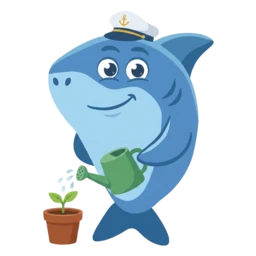
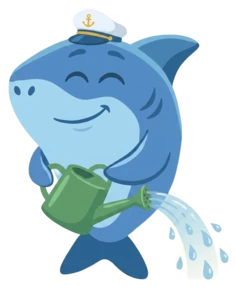
feat(knowledge-tree): shark waters the real tree (drop baked-in sprout)
Per Yoav: the sprout the shark waters should BE the GrowingTree, not a plant
drawn into the mascot. Regenerated the watering mascot WITHOUT a sprout/pot —
just Captain Shark tilting the can with water pouring to the right — and
reworked KnowledgeTreeScreen so he stands beside the real GrowingTree and
waters it (slight overlap so the stream reaches the tree). Bubble moved below
the scene.

diff --git a/src/features/knowledge-tree/KnowledgeTreeScreen.tsx b/src/features/knowledge-tree/KnowledgeTreeScreen.tsx
@@ -51,25 +51,27 @@ export function KnowledgeTreeScreen(): React.ReactElement {
           contentContainerStyle={styles.scroll}
           showsVerticalScrollIndicator={false}
         >
-          {/* The tree — hero */}
-          <Animated.View entering={FadeIn.duration(400)} style={styles.treeWrap}>
-            <GrowingTree stageIndex={view.displayStage} size={260} />
+          {/* Scene — Captain Shark stands beside the REAL GrowingTree and waters
+              it: his can pours to the right, where the tree sits (slight overlap
+              so the water reaches it). The tree is the hero; the shark is smaller. */}
+          <Animated.View entering={FadeIn.duration(400)} style={styles.scene}>
+            <ExpoImage source={FINN_WATERING} style={styles.sharkBig} contentFit="contain" accessible={false} />
+            <GrowingTree stageIndex={view.displayStage} size={190} />
           </Animated.View>
 
-          {/* Forest stats */}
-          <Animated.View entering={FadeInDown.duration(400).delay(120)} style={styles.statsRow}>
-            <Stat value={String(wateredDays)} label="ימי השקיה" />
-            <View style={styles.statDivider} />
-            <Stat value={String(view.treesCompleted)} label="עצים גידלת" />
-          </Animated.View>
-
-          {/* Captain Shark watering + speech bubble */}
-          <Animated.View entering={FadeInDown.duration(400).delay(220)} style={styles.sharkRow}>
-            <ExpoImage source={FINN_WATERING} style={styles.shark} contentFit="contain" accessible={false} />
+          {/* Speech bubble */}
+          <Animated.View entering={FadeInDown.duration(400).delay(140)} style={styles.bubbleWrap}>
             <View style={styles.bubble}>
               <View style={styles.bubbleTail} />
               <Text style={styles.bubbleText}>{bubbleText}</Text>
             </View>
+          </Animated.View>
+
+          {/* Forest stats */}
+          <Animated.View entering={FadeInDown.duration(400).delay(220)} style={styles.statsRow}>
+            <Stat value={String(wateredDays)} label="ימי השקיה" />
+            <View style={styles.statDivider} />
+            <Stat value={String(view.treesCompleted)} label="עצים גידלת" />
           </Animated.View>
 
           {/* CTA — only when the tree hasn't been watered today */}
@@ -124,10 +126,15 @@ const styles = StyleSheet.create({
     paddingBottom: 40,
     alignItems: 'center',
   },
-  treeWrap: {
+  scene: {
+    flexDirection: 'row',
+    alignItems: 'flex-end',
+    justifyContent: 'center',
     marginTop: 8,
-    marginBottom: 8,
+    marginBottom: 14,
   },
+  sharkBig: { width: 138, height: 168, marginRight: -10, marginBottom: 6 },
+  bubbleWrap: { width: '100%', marginBottom: 16 },
   statsRow: {
     flexDirection: 'row-reverse',
     alignItems: 'center',
@@ -145,16 +152,8 @@ const styles = StyleSheet.create({
   statValue: { fontSize: 24, fontWeight: '900', color: '#065f46' },
   statLabel: { fontSize: 12, fontWeight: '700', color: '#059669', writingDirection: 'rtl' },
   statDivider: { width: 1, height: 32, backgroundColor: '#a7f3d0' },
-  sharkRow: {
-    flexDirection: 'row',
-    alignItems: 'center',
-    gap: 10,
-    width: '100%',
-    marginBottom: 18,
-  },
-  shark: { width: 76, height: 76 },
   bubble: {
-    flex: 1,
+    width: '100%',
     backgroundColor: '#f0fdf4',
     borderRadius: 16,
     borderWidth: 1,
@@ -165,16 +164,17 @@ const styles = StyleSheet.create({
   },
   bubbleTail: {
     position: 'absolute',
-    left: -8,
-    top: '42%',
+    top: -8,
+    left: '50%',
+    marginLeft: -7,
     width: 0,
     height: 0,
-    borderTopWidth: 7,
-    borderBottomWidth: 7,
-    borderRightWidth: 9,
-    borderTopColor: 'transparent',
-    borderBottomColor: 'transparent',
-    borderRightColor: '#bbf7d0',
+    borderLeftWidth: 7,
+    borderRightWidth: 7,
+    borderBottomWidth: 9,
+    borderLeftColor: 'transparent',
+    borderRightColor: 'transparent',
+    borderBottomColor: '#bbf7d0',
   },
   bubbleText: {
     fontSize: 14,
